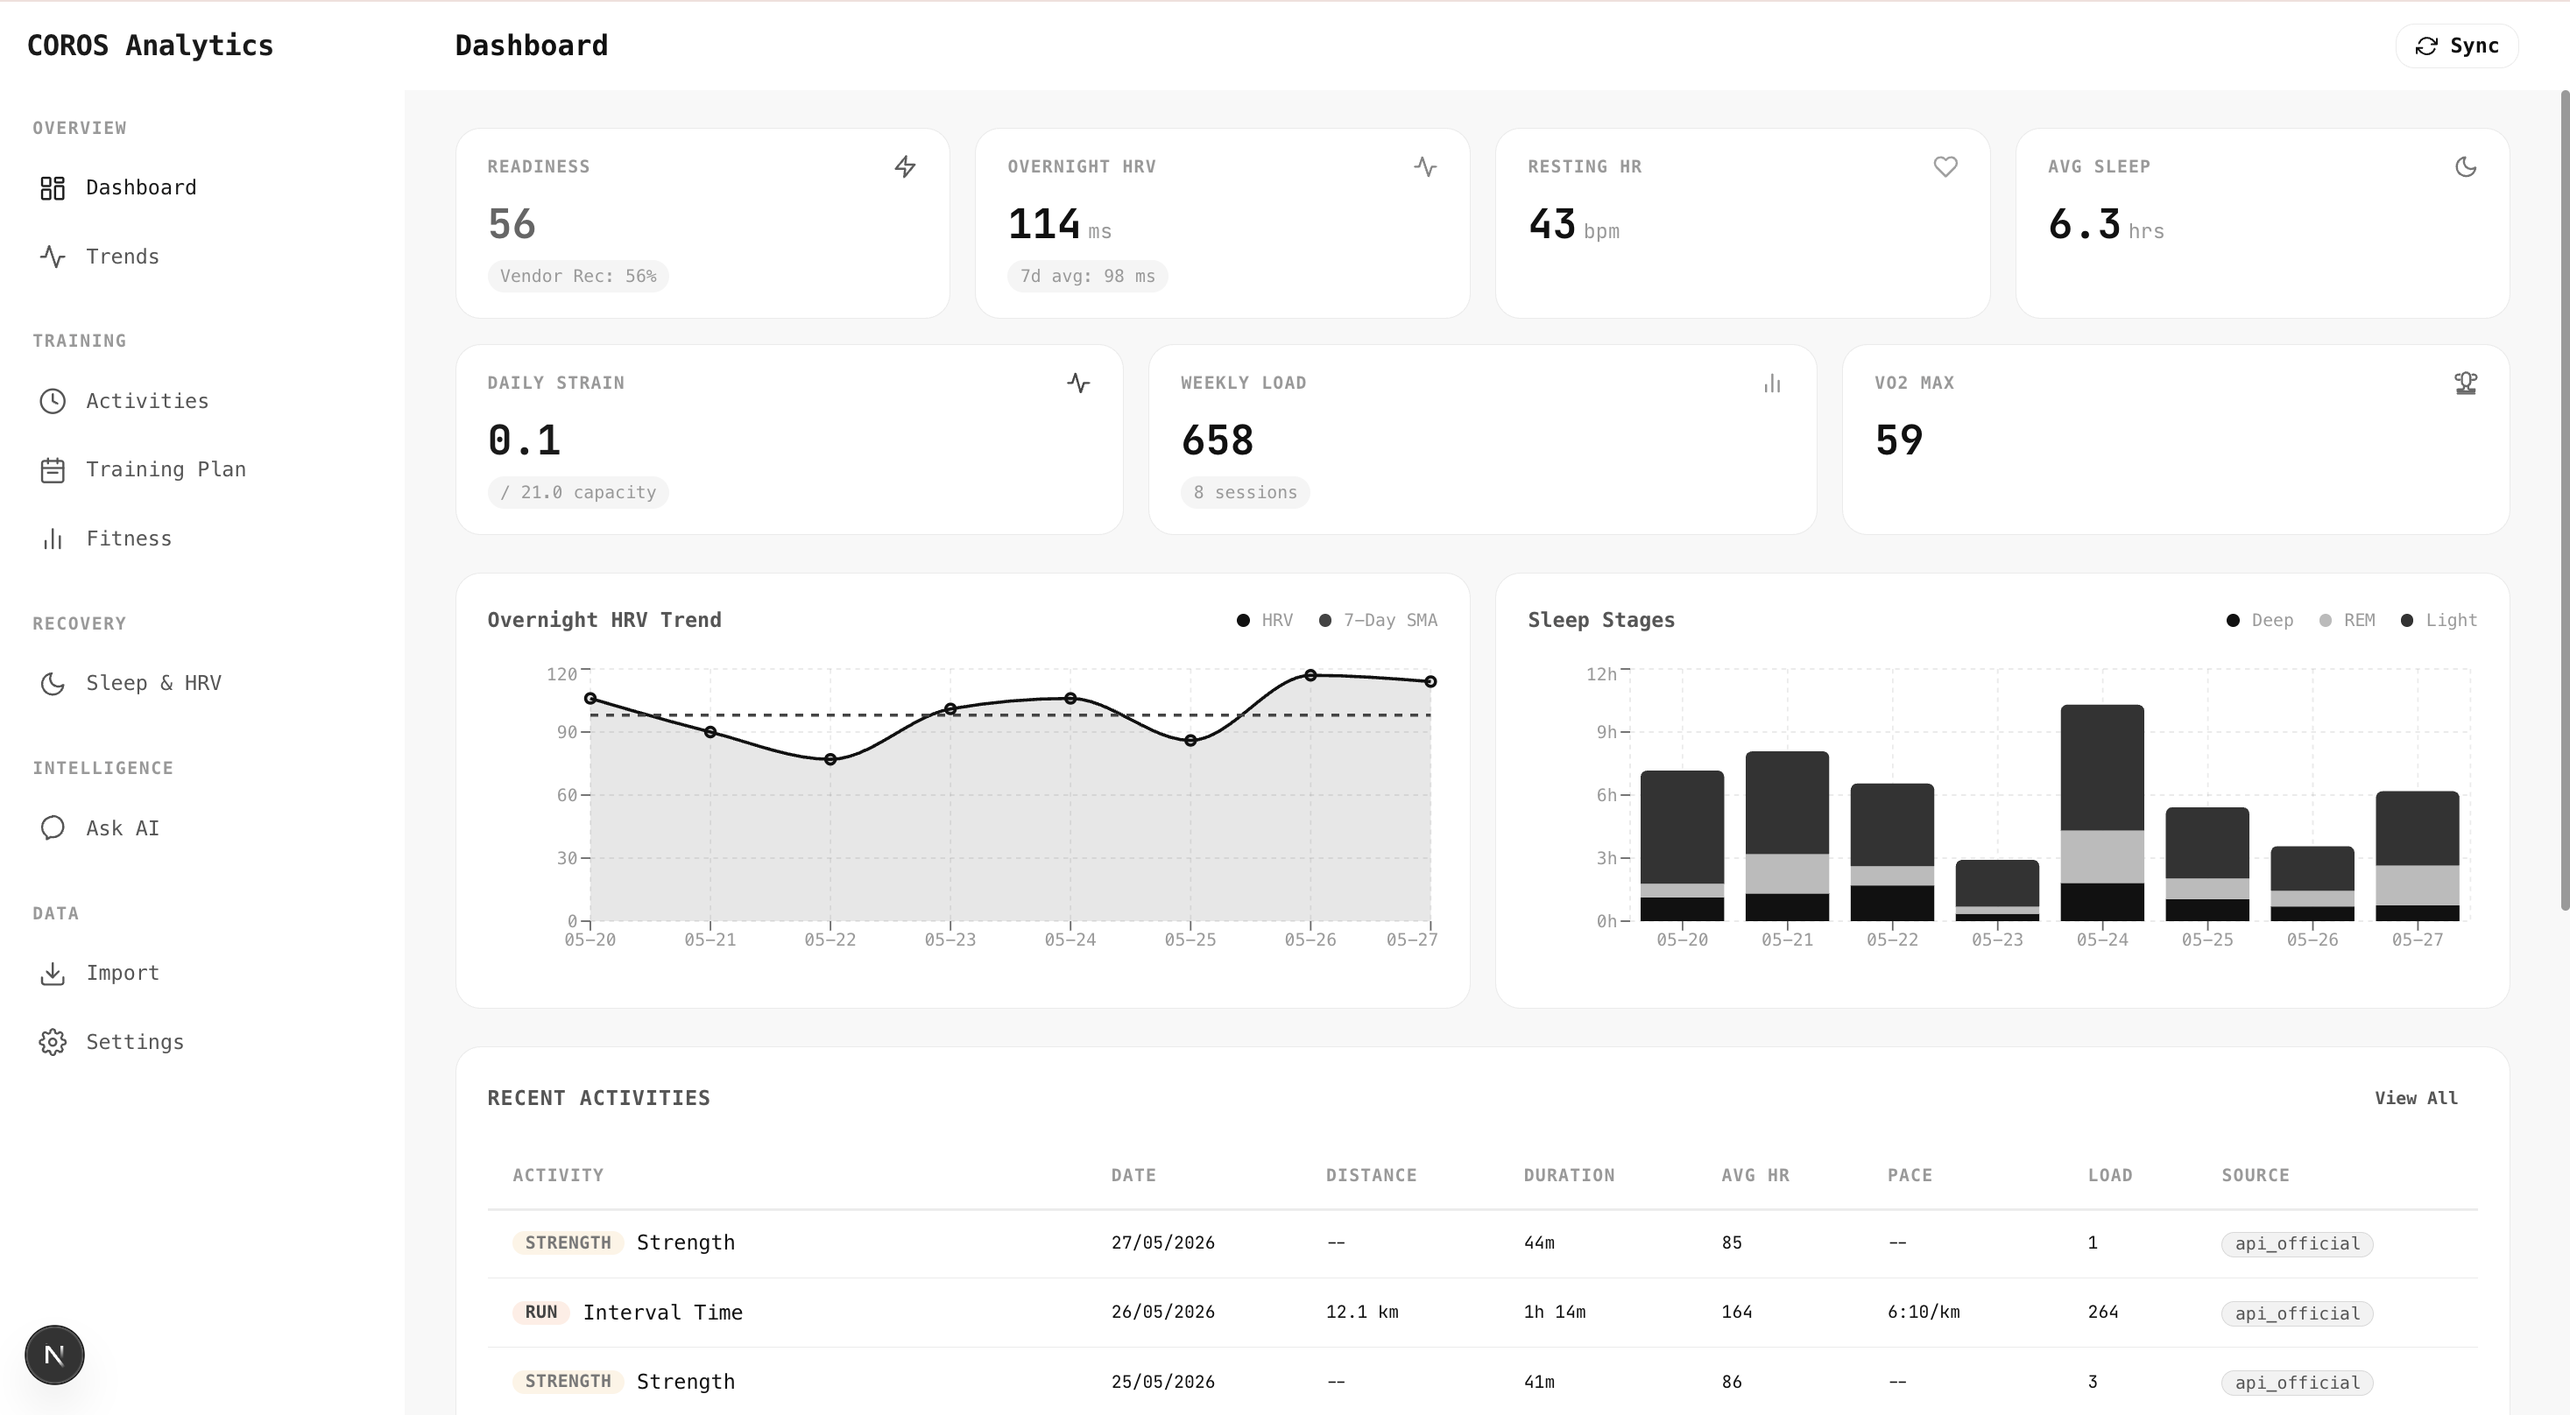
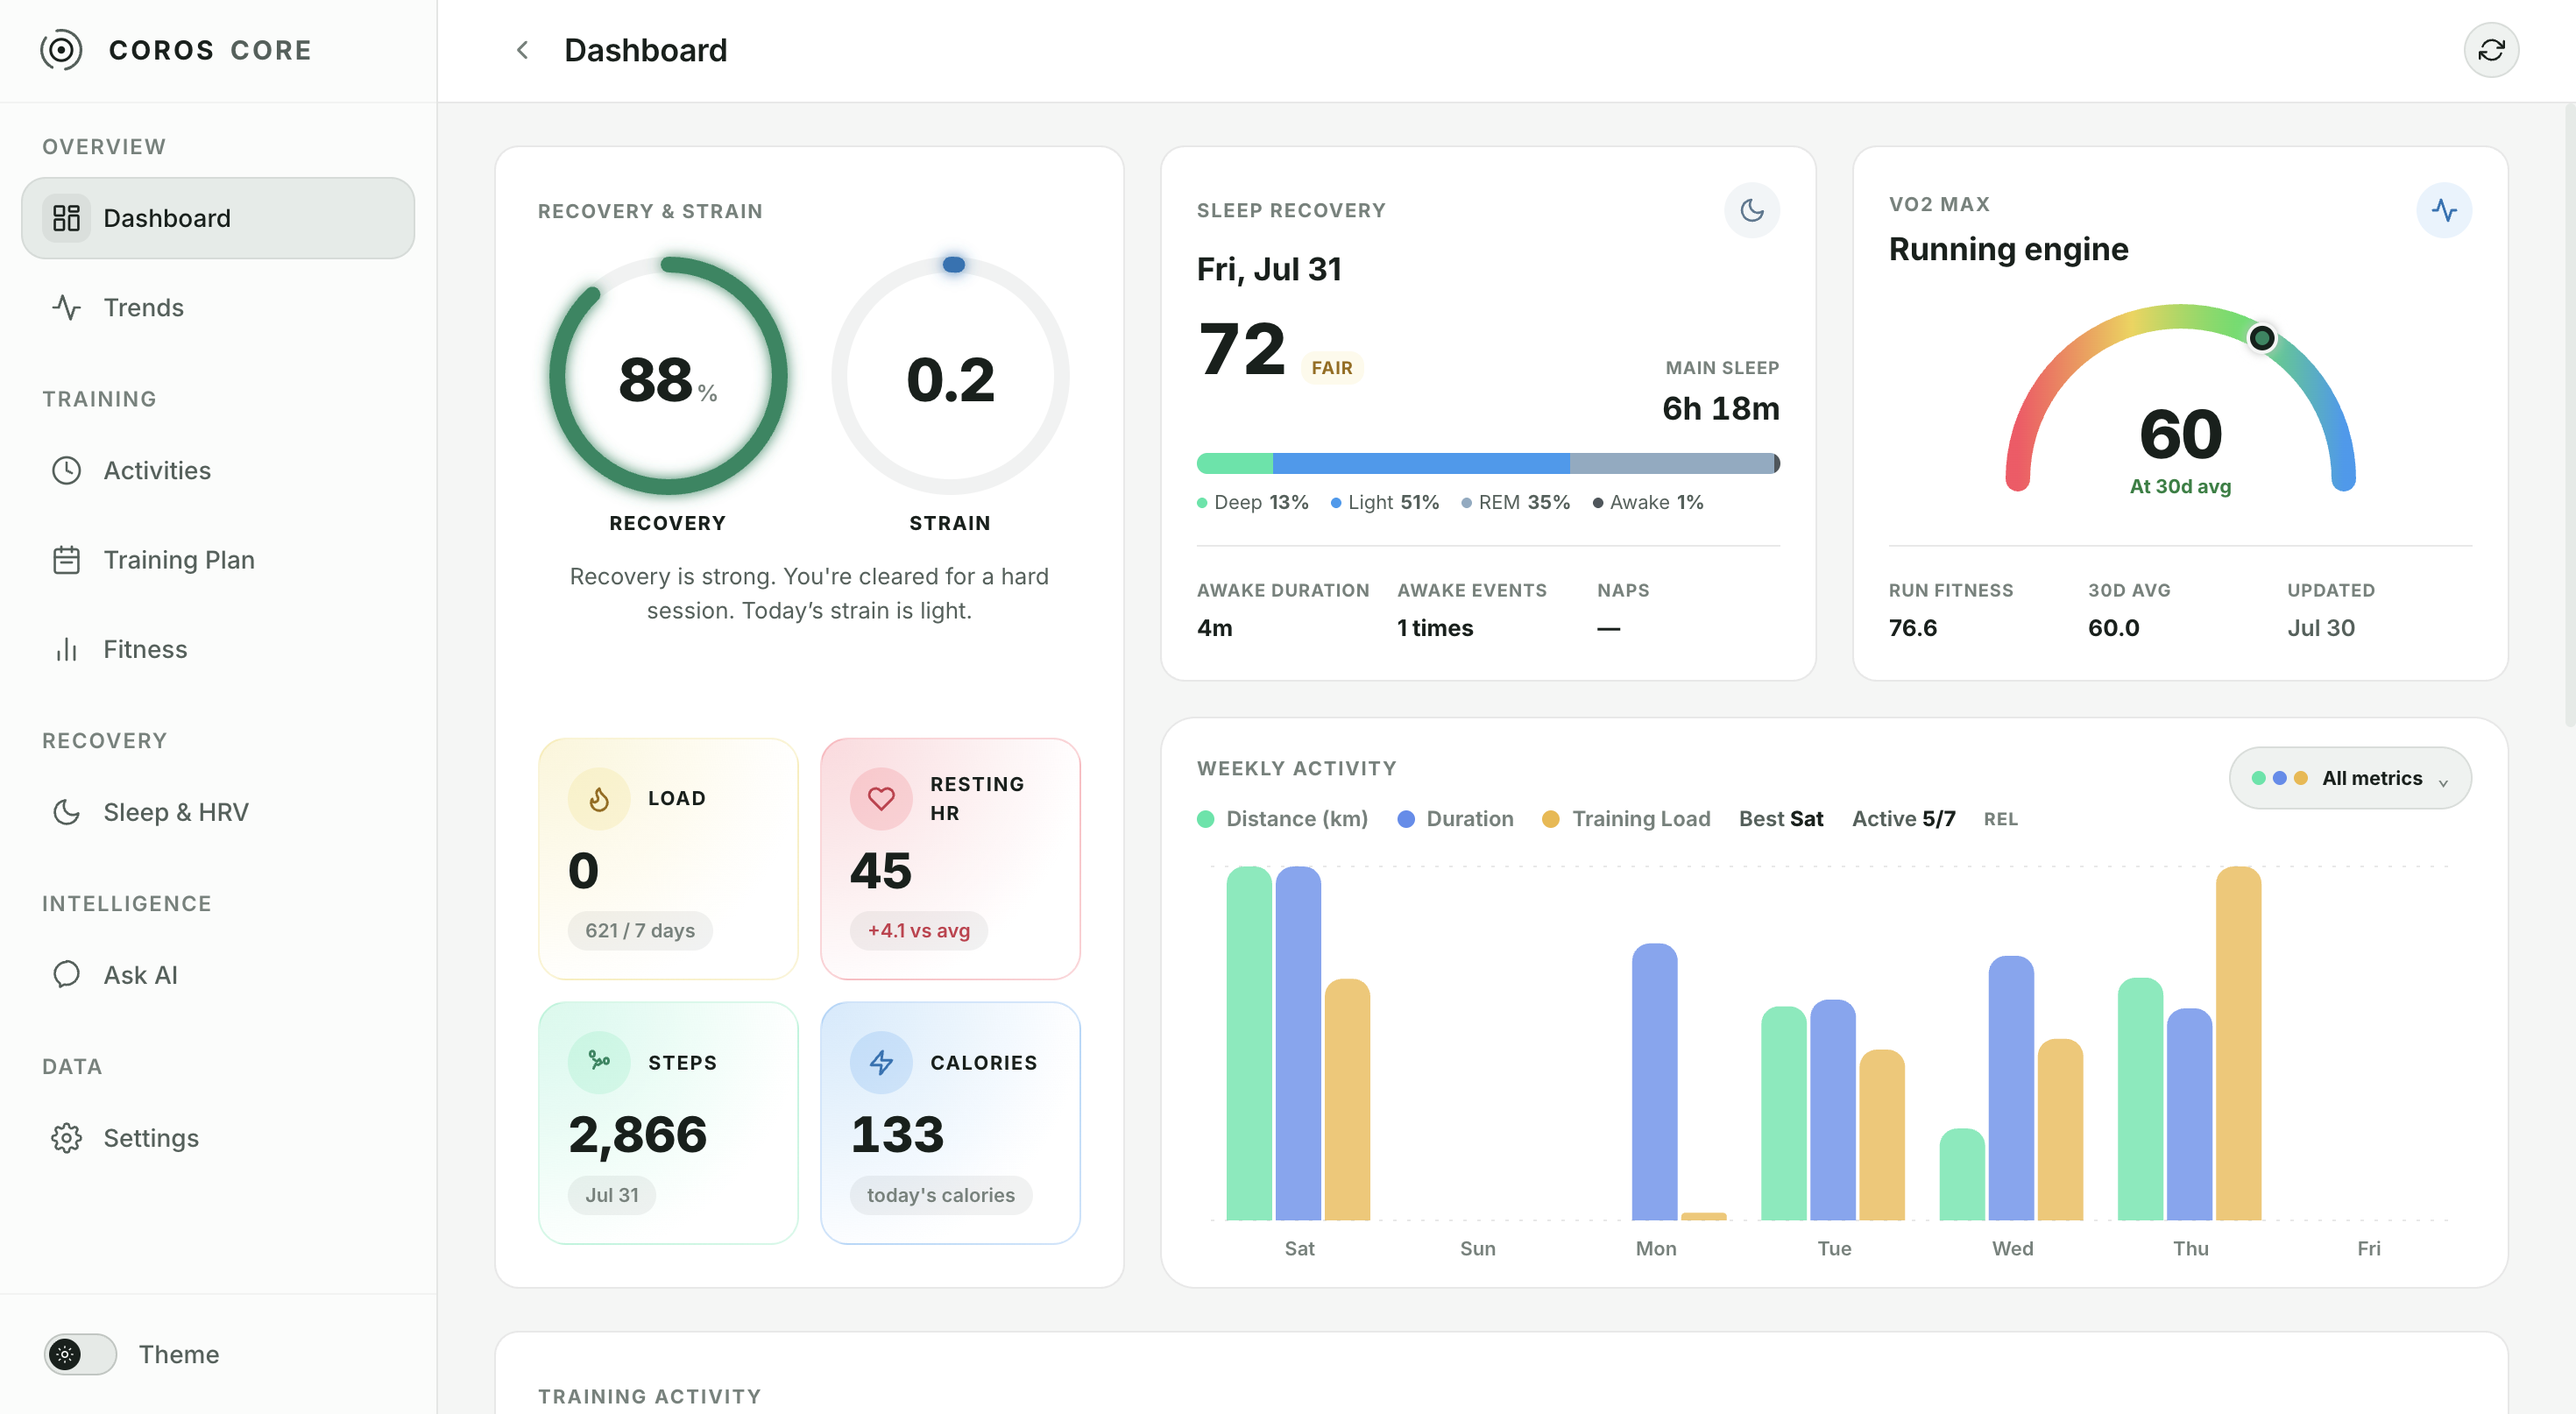
feat: enhance owner user ID handling and add tests for settings reconciliation

diff --git a/backend/src/main.py b/backend/src/main.py
@@ -4,6 +4,7 @@ import asyncio
 import logging
 from collections.abc import AsyncGenerator
 from contextlib import asynccontextmanager, suppress
+from uuid import UUID
 
 from fastapi import FastAPI
 from fastapi.middleware.cors import CORSMiddleware
@@ -49,21 +50,28 @@ async def lifespan(app: FastAPI) -> AsyncGenerator[None, None]:
     # Create any tables that don't exist yet (idempotent — safe to run every boot)
     async with engine.begin() as conn:
         await conn.run_sync(Base.metadata.create_all)
-        # Upsert (idempotent — เรียกซ้ำแล้วได้ผลลัพธ์เดิม) the owner user row so FK
-        # constraints on sync_events and other tables are satisfied.
-        await conn.execute(
-            text(
-                "INSERT INTO users (id, email, timezone, units)"
-                " VALUES (:id, :email, :tz, :units)"
-                " ON CONFLICT (id) DO NOTHING"
-            ),
-            {
-                "id": str(settings.owner_user_id),
-                "email": settings.owner_email,
-                "tz": settings.owner_timezone,
-                "units": settings.owner_units,
-            },
-        )
+        owner_id = (
+            await conn.execute(
+                text("SELECT id FROM users WHERE email = :email LIMIT 1"),
+                {"email": settings.owner_email},
+            )
+        ).scalar_one_or_none()
+        if owner_id is None:
+            await conn.execute(
+                text(
+                    "INSERT INTO users (id, email, timezone, units)"
+                    " VALUES (:id, :email, :tz, :units)"
+                    " ON CONFLICT (id) DO NOTHING"
+                ),
+                {
+                    "id": str(settings.owner_user_id),
+                    "email": settings.owner_email,
+                    "tz": settings.owner_timezone,
+                    "units": settings.owner_units,
+                },
+            )
+        else:
+            settings.owner_user_id = UUID(str(owner_id))
     scheduler_task = asyncio.create_task(_scheduled_sync_loop())
     try:
         yield

diff --git a/backend/tests/test_owner_config.py b/backend/tests/test_owner_config.py
@@ -2,7 +2,8 @@ from uuid import UUID
 
 from pytest import MonkeyPatch
 
-from src.config import Settings
+from src.config import Settings, get_settings
+from src.db.owner import get_owner_id
 
 
 def test_owner_user_id_defaults_to_legacy_and_accepts_override(
@@ -14,3 +15,14 @@ def test_owner_user_id_defaults_to_legacy_and_accepts_override(
     assert Settings().owner_user_id == UUID(
         "11111111-1111-1111-1111-111111111111"
     )
+
+
+def test_owner_id_uses_reconciled_settings() -> None:
+    get_settings.cache_clear()
+    try:
+        settings = get_settings()
+        settings.owner_user_id = UUID("22222222-2222-2222-2222-222222222222")
+
+        assert get_owner_id() == "22222222-2222-2222-2222-222222222222"
+    finally:
+        get_settings.cache_clear()

diff --git a/backend/src/config.py b/backend/src/config.py
@@ -1,5 +1,6 @@
 """Application configuration loaded from environment variables."""
 
+from functools import cache
 from uuid import UUID
 
 from pydantic import Field
@@ -64,6 +65,7 @@ class Settings(BaseSettings):
         return self.owner_email
 
 
+@cache
 def get_settings() -> Settings:
     """Factory function for settings singleton."""
     return Settings()
